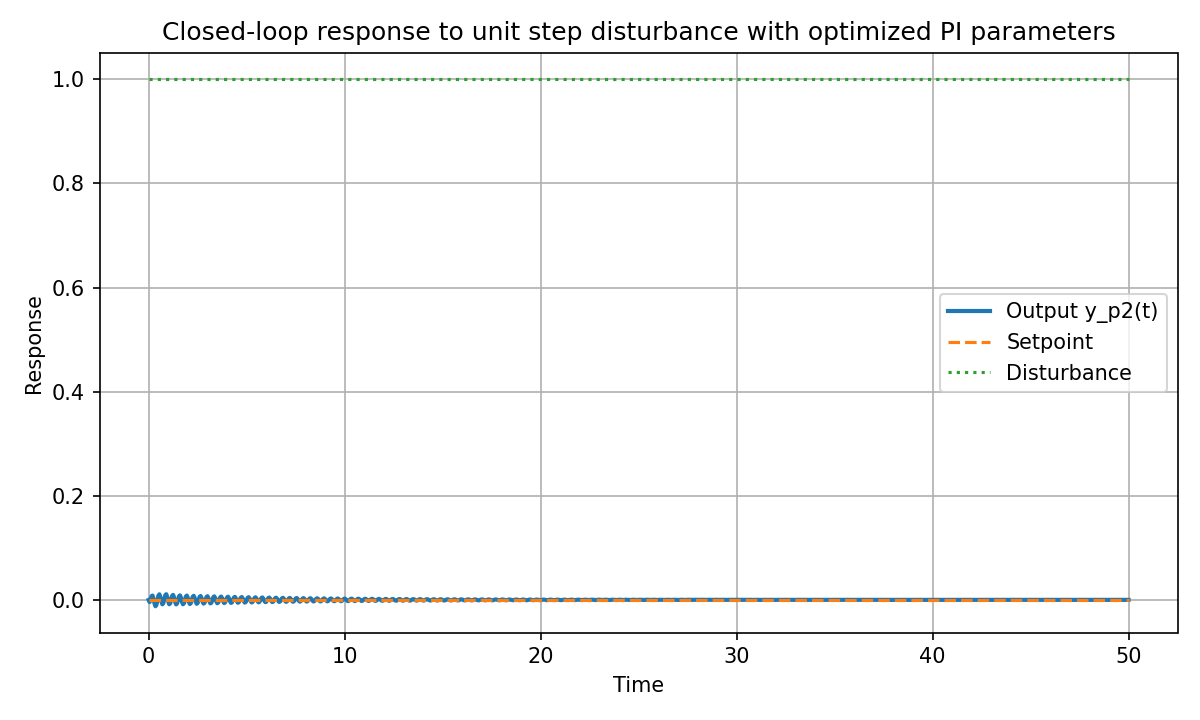
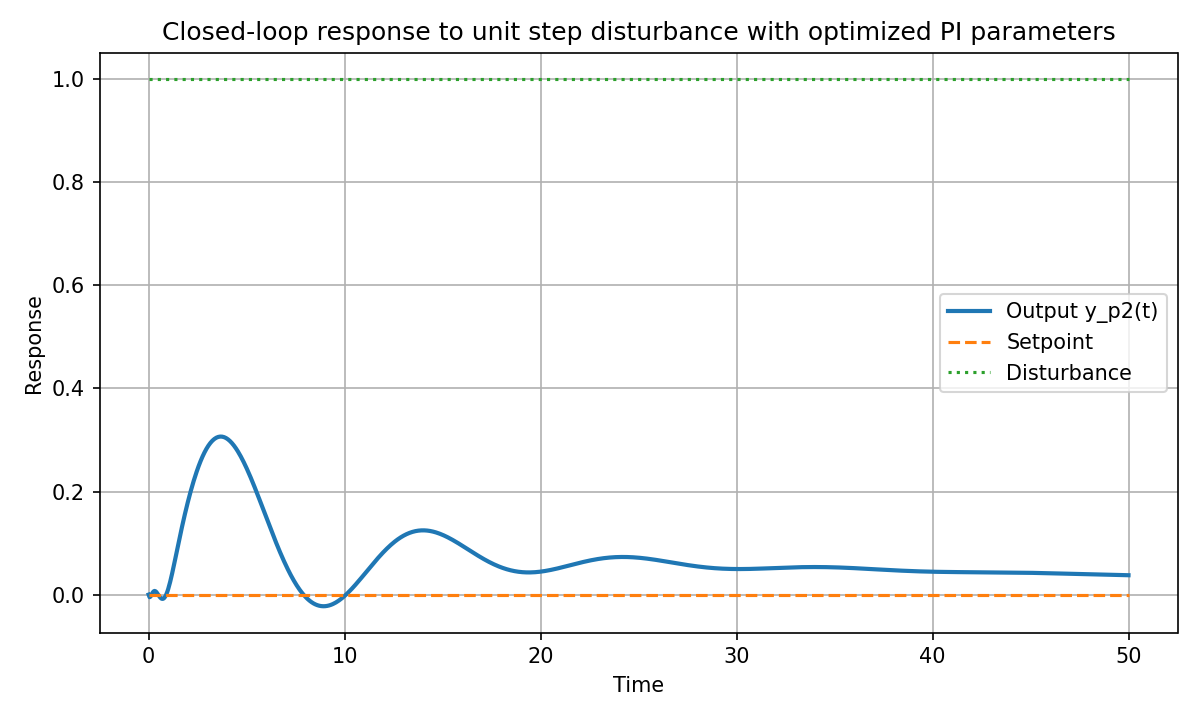
Refactor objective function in HW5_CHE565.py for improved cost evaluation and stability checks

diff --git a/PyFunc/HW5_CHE565.py b/PyFunc/HW5_CHE565.py
@@ -195,15 +195,20 @@ def objective_PI(params):
         return np.inf
     
     t, y = simulate_case(sys, tvals, step_off, step_on)
-    e = step_off - y
-    eint = np.abs(e)
-    u_control = P*(1+I*eint)
+    y = np.asarray(y).squeeze()
+    t = np.asarray(t).squeeze()
+    ysp = np.asarray(step_off).squeeze()
+    
+    e = ysp - y
+    eint = np.trapezoid(np.abs(e), t)
+    u_control = P*(e+I*eint)
     Q = 1
     R = 1
-    cost = Q * eint**2 + R * u_control**2
-    IAE = calculate_IAE(t, y, step_off)
-    print(f"Evaluating P={P:.4f}, I={I:.4f}, IAE={IAE:.4f}")
-    return IAE
+    cost = Q * e**2 + R * u_control**2
+    J = np.trapezoid(cost, t)
+    iae = np.trapezoid(np.abs(e), t)
+    print(f"Evaluating P={P:.4f}, I={I:.4f}, IAE={iae:.4f}, Cost J={J:.4f}")
+    return J
 initial_guess = [Kc1_nom, I1_nom]
 result = minimize(objective_PI, initial_guess)
 P_opt, I_opt = result.x
@@ -218,7 +223,7 @@ save_plot(
     ysp=step_off,
     d=step_on,)
 
-print(f"Optimal P: {P_opt:.4f}, Optimal I: {I_opt:.4f}, Minimum IAE: {result.fun:.4f}")
+print(f"Optimal P: {P_opt:.4f}, Optimal I: {I_opt:.4f}")
 A1_sp = sp.Matrix(A1)
 B1_sp = sp.Matrix(B1)
 C1_sp = sp.Matrix(C1)
